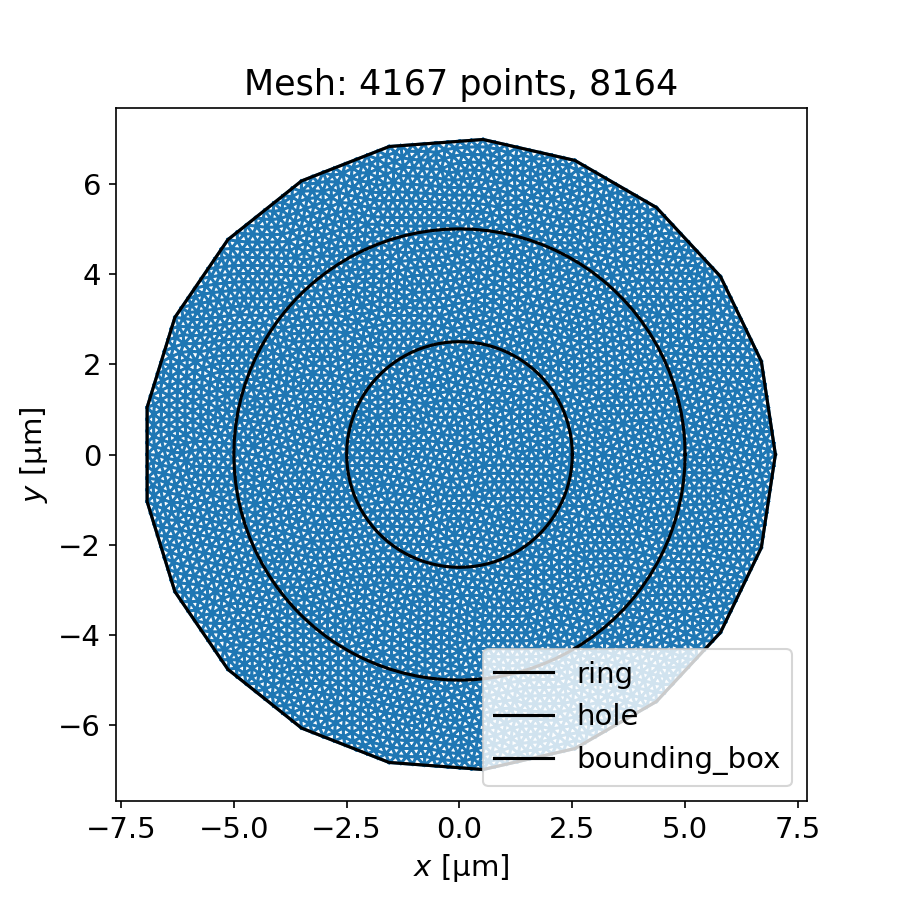
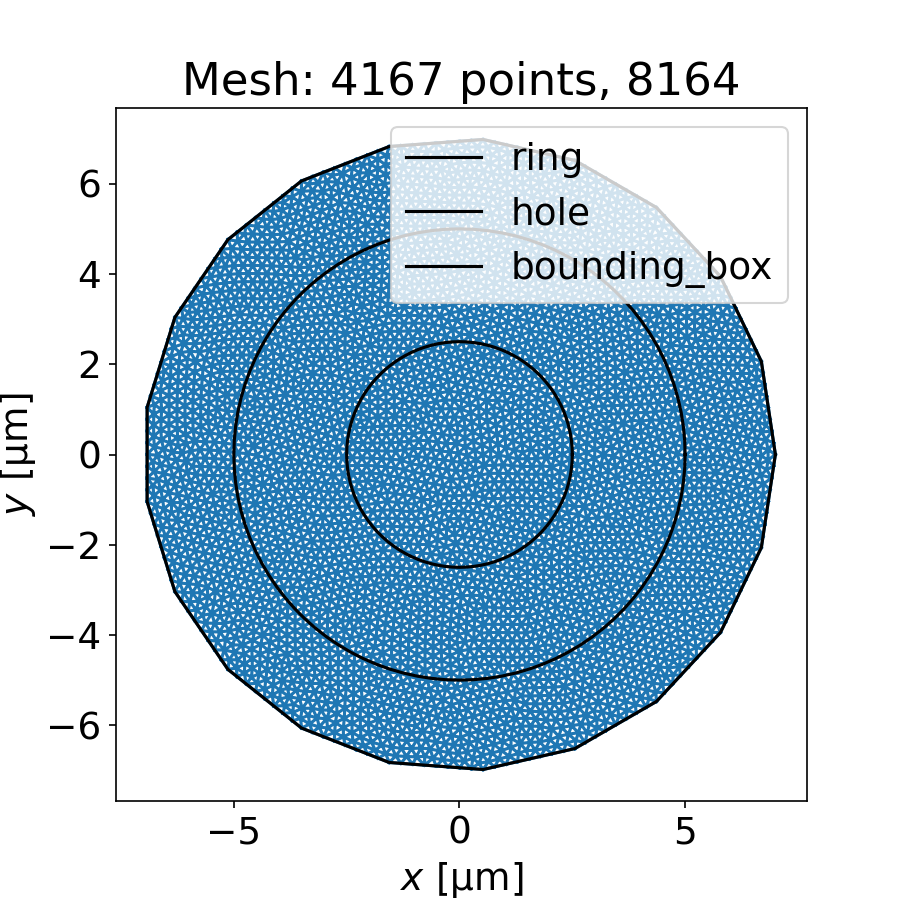
update images

diff --git a/examples/scripts/ring.py b/examples/scripts/ring.py
@@ -100,7 +100,7 @@ if __name__ == "__main__":
     # Valid options are None (i.e. serial execution), "ray", and "multiprocessing".
     # Note that for models this quick to solve, you should not expect any significatnt
     # speedup from parallel processing (especially using "multiprocessing").
-    parallel_method = "ray"
+    parallel_method = None
 
     for square in (False, True):
 

diff --git a/examples/scripts/plot_solutions.py b/examples/scripts/plot_solutions.py
@@ -5,7 +5,7 @@ from mpl_toolkits.axes_grid1.axes_divider import make_axes_locatable
 
 import superscreen as sc
 
-plt.rcParams["font.size"] = 14
+plt.rcParams["font.size"] = 18
 plt.rcParams["savefig.dpi"] = 150
 
 
